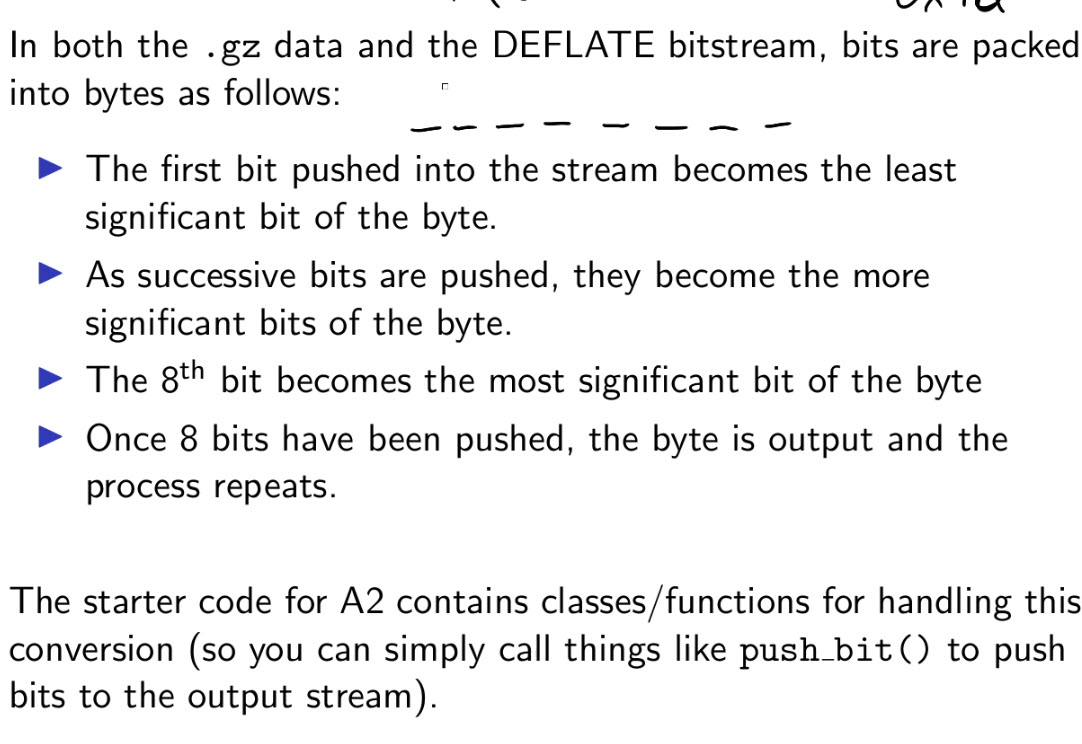
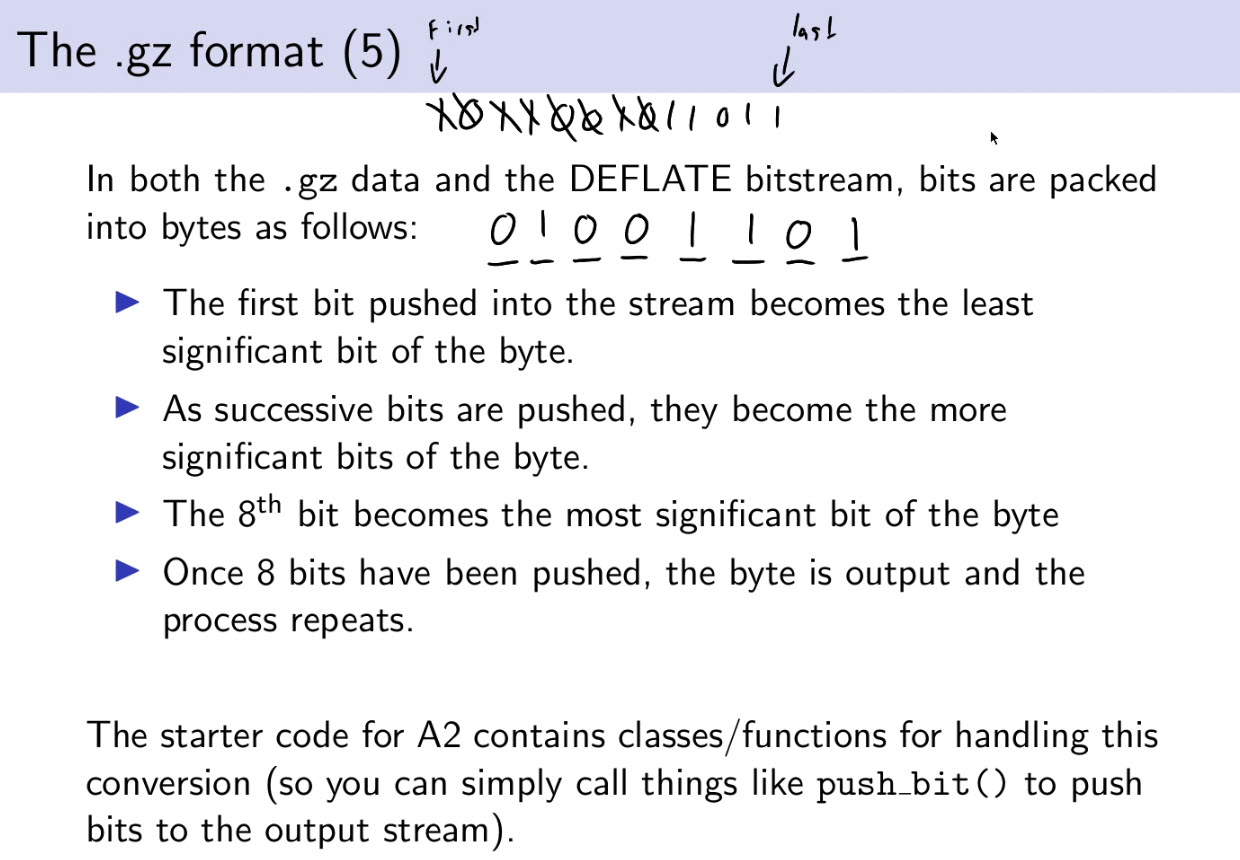
Finished all the notes on gzip

diff --git a/Algos/Compression.md b/Algos/Compression.md
@@ -51,6 +51,7 @@
 - [Link](https://fiehnlab.ucdavis.edu/staff/kind/collector/benchmark/7zip-benchmark)
 
 Input: **11 Gbyt** Windws XP VM
+![Compression Banch](./res/CompressionBanch.jpg)
 
 ![Banchmarks7Z](./res/7zipcompressionbenchmark.png)
 
@@ -190,10 +191,46 @@ L
 
 ### Questions 
 
+- [ ] Name of the corpus
 - [ ] Do I implent all links in video?
 - [ ] How to use gzstat.py ? 
 - [ ] Where to find testing data for our algo? 
 - [ ] What Unit test can I write
+
+### Roadmap
+
+- HuffmanCoding
+- LZSS 
+
+### Unit tests
+
+- [ ] GenreateHuffmanTree() 
+- [ ] LZSS() 
+- [ ] `PushBit(byte b)`
+- [ ] `PullBit():byte`
+- [ ] `CreteFileHeader(Data d):byte[]`
+- [ ] `ReadFileHdaers(byte[] b):Data`
+
+
+```c#
+void PishByte(){
+	throw new NotImplementedException();
+}
+void GenerateHuffmanTree(string s):HuffmanTree;
+void CreateHuffmanTree(string s):HuffmanTree;
+
+class HuffmanTree{
+	public Node RootNode;
+}
+
+struct Node{
+
+	public bool IsValue;
+	public char Value{red}
+	public Node Left;
+	public Node Right;
+}
+```
 
 ### Notes 
 
@@ -208,6 +245,8 @@ L
 
 ![GZIP LSB](./res/GZIPLSB.jpg)
 
+we push it the revers `110` as `011` but only numbers not prefix codes. 
+
 ### HEADERS
 
 ![GZIP HEADERS](./res/GZIPHeaders.jpg)
@@ -216,7 +255,7 @@ Those `10 bytes` should be always present
 
 - `MAGIC1` 	= 0x1f
 - `MAGIC2` 	= 0x8b
-- `CM` 		= 0x08
+- `CM` 		= 0x08 (is DEFLATE)
 - `FLAGS` 	= 0x00 for container
 - `MTIME`4bytes	= Unix timestam (**LSB** pushed first)
 - `XFL`		= 0x00
@@ -241,7 +280,7 @@ Those `10 bytes` should be always present
 
 ### Links
 
-- [gzstat.py](scripts\gzstat.py)
+- [gzstat.py](.\scripts\gzstat.py)
 - [Deflate White Paper](http://www.infinitepartitions.com/art001.html)
 - [Youtube Lecture](https://youtu.be/oi2lMBBjQ8s)
 
@@ -249,43 +288,70 @@ Those `10 bytes` should be always present
 
 ![FileStructure](./res/DEFLATEFS.png)
 
-### Block Type
+### Block Types
 	
-![DEFLATE BLock Type](./res/DEFLATEBTYPE.png)
+![DEFLATE BLock Type](./res/GZIPBlockTypes.png)
+
+#### Block Type 0
 
 ![DEFLATE BLock Type](./res/DEFLATEBT.png)
 
+- `IS_LAST` - is last or not
+- `BTYPE` - block type
+- `PADDING` - just padding
+- `LEN`  - number of bytes in the block Rule#1
+- `~LEN` - flips swaped the size 
+- `BITSTREAM` - 
+
+##### LZSS
+
+It uses **LZSS** encoding
+![GZIPLZSS](./res/GZIPLZSS.jpg)
 ### Literal/Length and Distance Symbols
 
 ![DEFLATE Refernce Length ](./res/DEFLATEBL.png)
 
-### Back Distance
+- We cna't incode backreference of size less then 2
 
-![DEFLATE Back Distance](./res/DEFLATEBD.png)
-
-### LL Code
-
-![DEFLATE LL Code](./res/DEFLATELLCODE.png)
-
-![DEFLATE LL CODE](./res/DEFLATELLCODE2.png)
-
-### Prefix 
-
-![DEFLATE Prefix](./res/DEFLATEPrefix.png)
-
-### EOB 
+##### EOB 
 
 ![DEFLATE EOB](./res/DEFLATEEOB.png)
 
-### Block Types 
+##### Distance Code
 
-![DEFLATE Block Type 1](./res/DEFLATEBT1.png)
+![DEFLATE Back Distance](./res/DEFLATEBD.png)
 
-### Assignemtn
+##### LL Code
 
-`gzip -d`
+![DEFLATE LL Code](./res/DEFLATELLCODE.png)
+
+**LL Code** first then **DC Code**
+![DEFLATE LL CODE](./res/DEFLATELLCODE2.png)
+
+##### Prefix 
+
+![DEFLATE Prefix](./res/DEFLATEPrefix.png)
+
+#### Block Type 1
+ 
+![GZIP BType1](./res/GZIPBT1.jpg)
+
+#### Block Type 2
+ 
+![GZIP BType2](./res/GZIPBT2.jpg)
+
+- Block type 2 is *nightmare* we need store those code tables
+
+**LL** - Code Length Code
+**CL** - Code Length Code Length code
+
+![GZIPRecomendation](./res/GZIPB2Rec.jpg)
+
+#### HCLEN
 
 ## Huffman coding
+
+- Pakcage generelazation
 
 BADBAC = `101100101101`
 

diff --git a/IDE/Vim.md b/IDE/Vim.md
@@ -44,6 +44,7 @@ vim C:\tools\vim\vim82\tutor\tutor
 ## NERDTree
 
 [Github link](https://github.com/preservim/nerdtree)
+
 ```vim
 
 nnoremap <leader>n :NERDTreeFocus<CR>
@@ -91,7 +92,6 @@ nnoremap <C-f> :NERDTreeFind<CR>
 
 Super awesome vim search in multiple files
 
-
 ## Concept 
 
  I think it might be a great idea to completly switch to vim
@@ -112,7 +112,6 @@ Super awesome vim search in multiple files
 <kbd>Ctrl</kbd>+<kbd>]</kbd> - Move to tag in vim help
 <kbd>Ctrl</kbd>+<kbd>O</kbd> - Get to begining
 <kbd>Ctrl</kbd>+<kbd>T</kbd> - Get to previous location
-
 ## Scrolling
 
 <kbd>Ctrl</kbd>+<kbd>U</kbd> - Scroll up 
